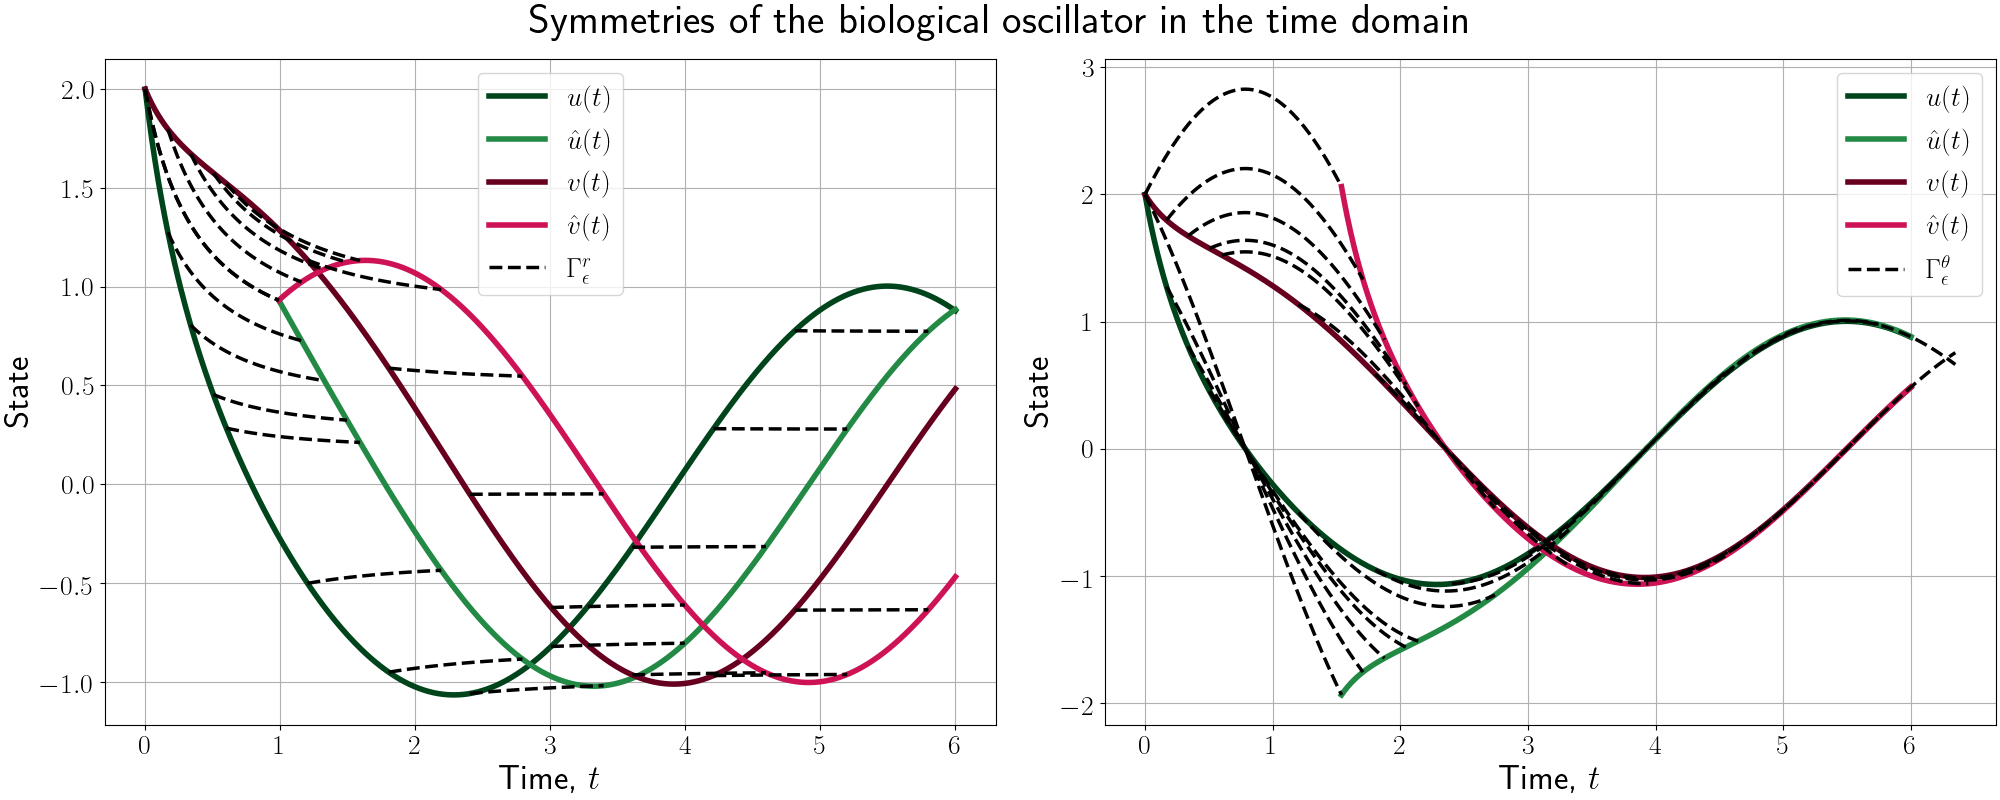
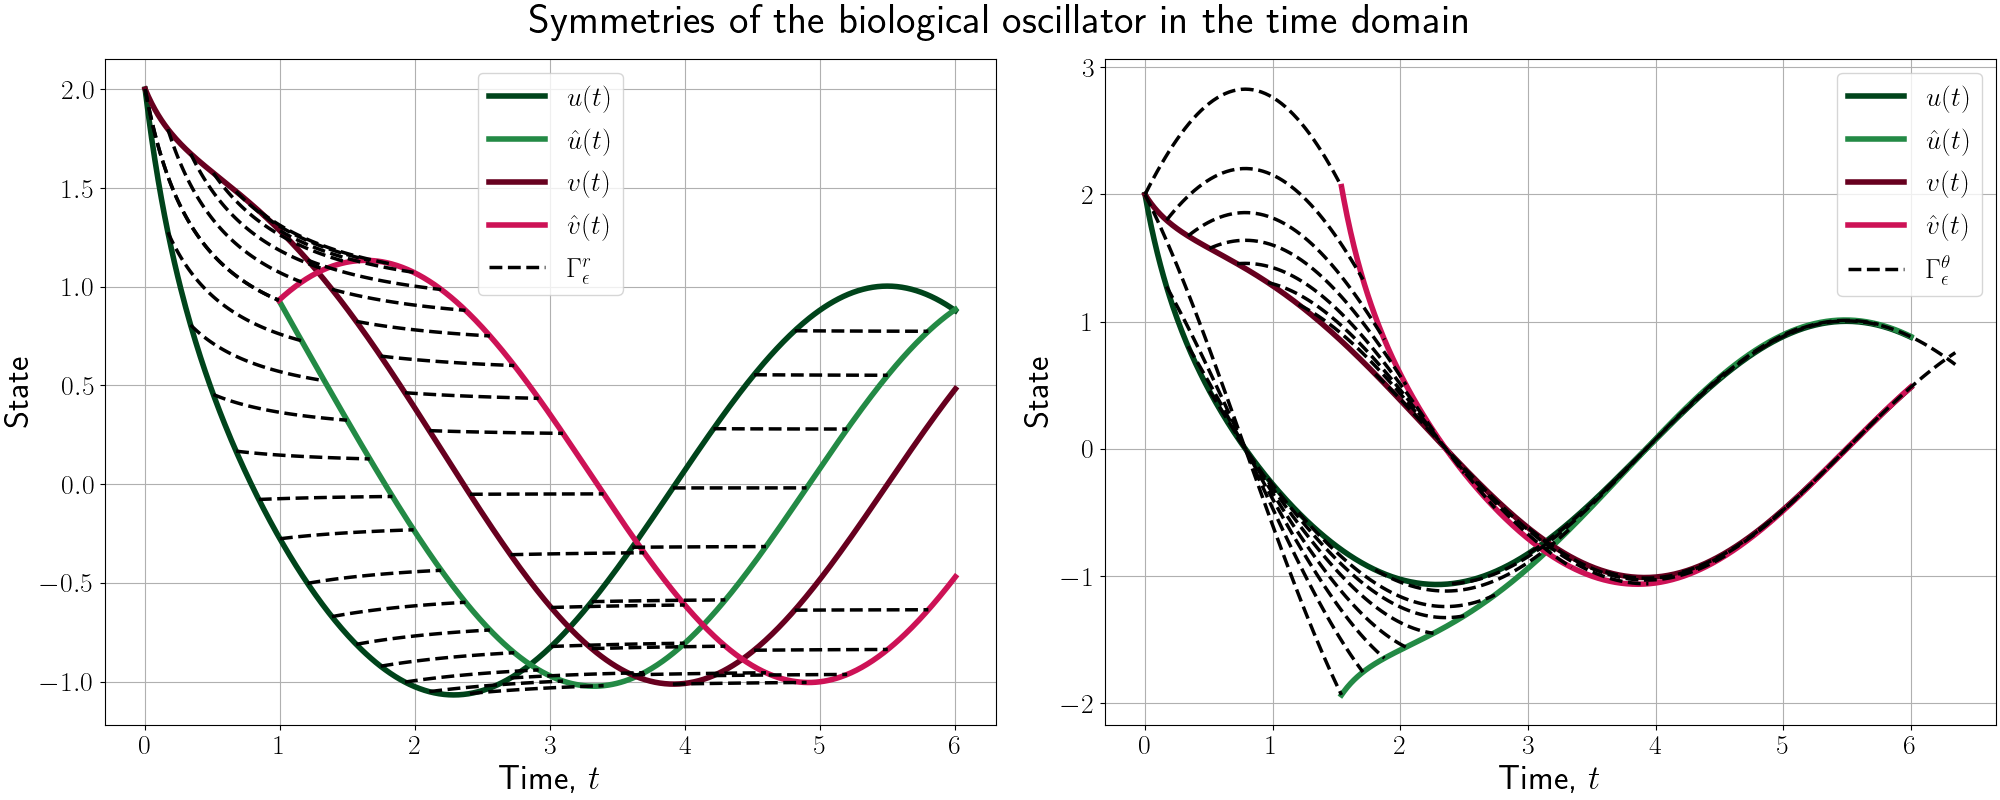
Add all files in the end

diff --git a/Code/biological_oscillator.py b/Code/biological_oscillator.py
@@ -179,7 +179,9 @@ epsilon_vec = arange(0,epsilon_r,epsilon_r/100)
 epsilon_vec_dense = linspace(0,epsilon_r,10000)
 #=================================================================================
 # The indices we wish to transform
-lin_indices = concatenate([arange(0,50,14),arange(50,450,50)])
+#lin_indices = concatenate([arange(0,50,14),arange(50,450,50)])
+#print(lin_indices)
+lin_indices = [0, 14, 28, 42, 56, 70, 83, 100, 115, 130, 145, 160, 175, 200, 225, 250, 275, 300, 325, 350, 375, 400] 
 # Allocate our empty lists
 Gamma_os_r_t_1 = []
 Gamma_os_r_u_1 = []
@@ -207,7 +209,9 @@ X1_r, infodict = integrate.odeint(dX_dt_os, array([Gamma_os_r_u_1[0][-1], Gamma_
 u_os_r_2, v_os_r_2 = X1_r.T
 #--------------------------------------------------------------------------------------------------
 # The indices we wish to transform
-lin_indices = concatenate([arange(0,50,14),arange(50,450,50)])
+#lin_indices = concatenate([arange(0,50,14),arange(50,450,50)])
+#print(lin_indices)
+lin_indices = [0,  14,  28,  42,  60, 80, 100, 150, 200, 250, 300, 350, 400]
 # Plot the action of the symmetry
 epsilon_vec = arange(0,epsilon_theta,epsilon_theta/50)
 # A really dense epsilon vector

diff --git a/Code/LV.py b/Code/LV.py
@@ -63,11 +63,13 @@ for t_index in list(t_indices):
     t_sym.append(trans_vec)
 # Transformations u
 u_sym = []
-u_indices = [40, 60, 75, 90, 100, 110, 130, 145, 150, 160, 290, 307]
+u_indices = [40, 60, 75, 90, 100, 110, 117, 130, 134, 145, 150, 160, 290, 307]
+#u_indices = [134]
 for u_index in list(u_indices):
-    trans_vec = [u_transf(u[u_index], epsilon_temp, alpha)
-                 for epsilon_temp in list(epsilon_vec)]
-    u_sym.append(trans_vec)
+    #trans_vec = [u_transf(u[u_index], epsilon_temp, alpha) for epsilon_temp in list(epsilon_vec)]
+    X, infodict = integrate.odeint(u_transf_ODE, array([u[u_index], v[u_index]]), epsilon_vec, args = (alpha,),full_output=True)
+    trans_vec, v_trans = X.T    
+    u_sym.append(list(trans_vec))
 # Transformations v
 v_sym = []
 v_indices = [30, 50, 64, 106, 112, 117,125, 140, 155, 170, 300, 350, 400, -1]

diff --git a/Code/symmetry_toolbox.py b/Code/symmetry_toolbox.py
@@ -49,6 +49,12 @@ def u_transf(u, epsilon,alpha):
     else:
         u_hat_solution = fsolve(func, u)[0]
     return u_hat_solution
+# Function 2.5: u_transf_ODE
+def u_transf_ODE(X, epsilon=0,*parameters):
+    # Extract the parameters
+    alpha = parameters[0]
+    # Return the dynamics of the biological oscillator
+    return array([ (1/alpha)*(X[0]/(X[0]-1)),0])
 # Function 3: v_transf
 def v_transf(v, epsilon, alpha):
     func = lambda v_hat :  log(v**(1/alpha)) - (v/alpha) + epsilon - (log(v_hat**(1/alpha)) - (v_hat/alpha))
